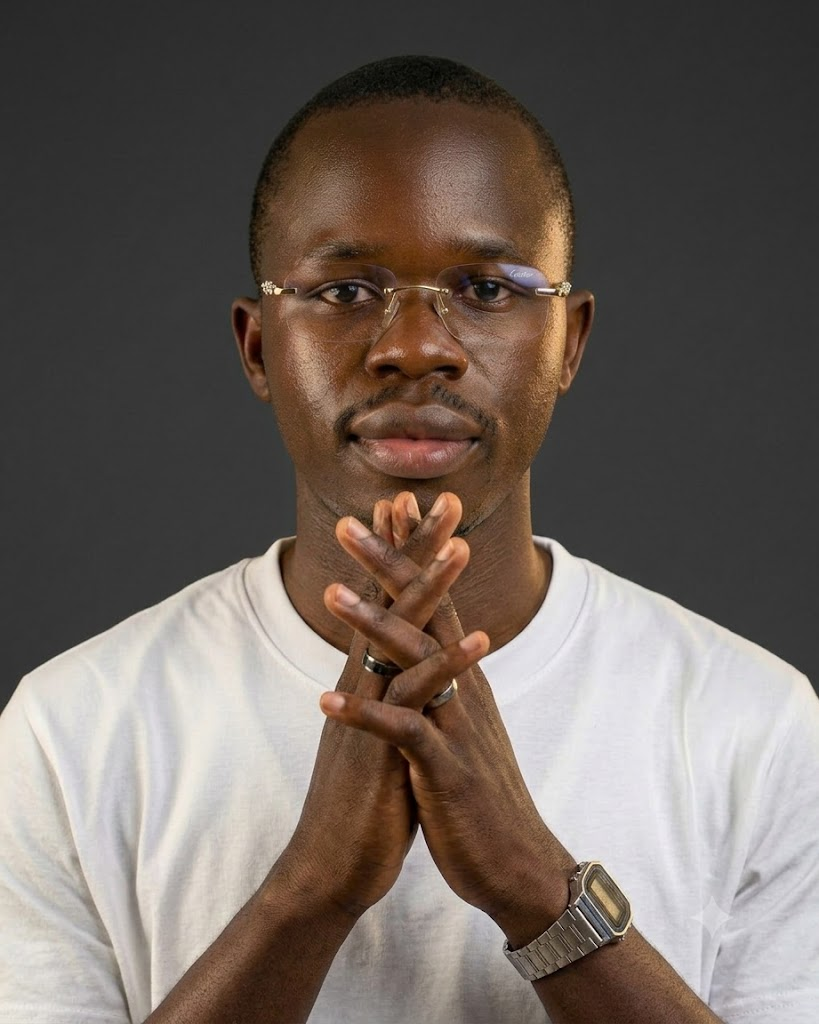
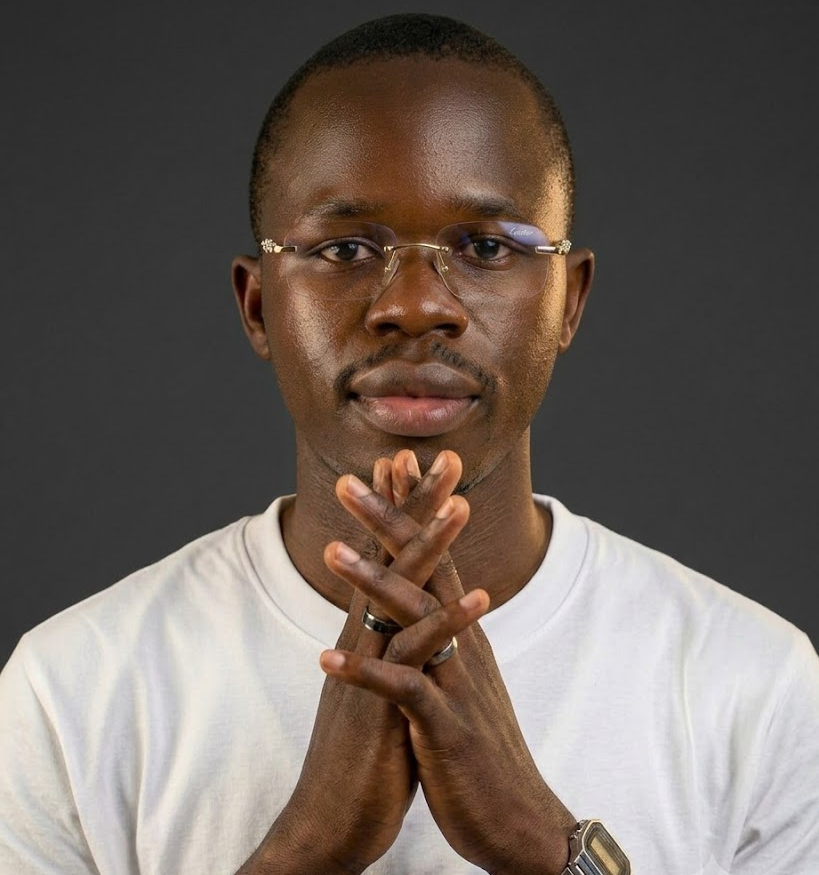
Fix profile image pages

Changed region(s): [[0.0, 0.0, 1.0, 1.0], [0.9768, 0.9566, 1.0, 0.9874], [0.9463, 0.9874, 0.9768, 1.0]]

diff --git a/src/pages/Home.jsx b/src/pages/Home.jsx
@@ -24,9 +24,11 @@ export default function Home() {
             transition={{ duration: 0.6 }}
             className="relative mx-auto h-64 w-64 rounded-full border border-gold-400/30 bg-gold-radial sm:h-80 sm:w-80"
           >
-            <div className="absolute inset-6 rounded-full border border-gold-400/20 flex items-center justify-center">
-              <span className="font-display italic text-6xl text-gold-gradient">DC</span>
-            </div>
+                   <img
+  src="/Dc profile pic 2.jpeg"
+  alt="Didon, founder of DIDON CREA8IVE"
+  className="h-full w-full rounded-full object-cover"
+/>
           </motion.div>
 
           <div>

diff --git a/src/pages/About.jsx b/src/pages/About.jsx
@@ -63,7 +63,7 @@ export default function About() {
             transition={{ duration: 0.6 }}
             className="relative mx-auto h-72 w-72 rounded-full border border-gold-400/30 bg-gold-radial sm:h-80 sm:w-80"
           >
-            <img src="public/Dc profile pic.jpeg" alt="Photo of Didon, founder of DIDON CREA8IVE"
+            <img src="/Dc pro file pic 1.jpeg" alt="Photo of Didon, founder of DIDON CREA8IVE"
              className="Absolute inset-6 h-full w-full rounded-full object-cover"/>
             <span className="absolute -bottom-3 left-1/2 -translate-x-1/2 rounded-full
              border border-gold-400/40 bg-ivory dark:bg-ink px-5 py-2 text-xs eyebrow text-gold-500 dark:text-gold-300">

diff --git a/src/sections/Hero.jsx b/src/sections/Hero.jsx
@@ -82,7 +82,7 @@ export default function Hero() {
         >
           <span className="absolute inset-0 rounded-full border border-gold-400/25 animate-spin-slow" />
           <span className="absolute inset-6 rounded-full border border-dashed border-gold-400/20 animated-spin-slower"/>
-          <img src="/public/Dc profile pic.jpeg" alt="Didon, founder of DIDON CREA8IVE" className="h-56 w-56 rounded-full border-2 border-gold-400/60
+          <img src="/Dc profile pic.jpeg" alt="Didon, founder of DIDON CREA8IVE" className="h-56 w-56 rounded-full border-2 border-gold-400/60
           object-cover shadow-goldlg sm:h- 72 sm:w- 72"/>
         </motion.div>
       </div>